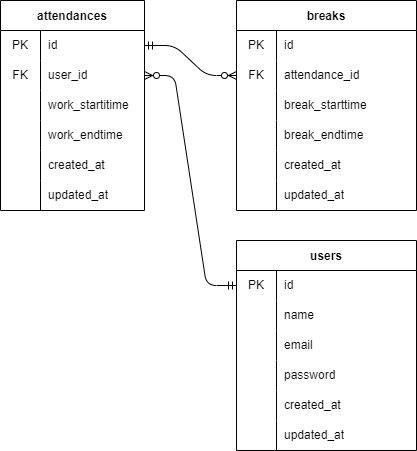
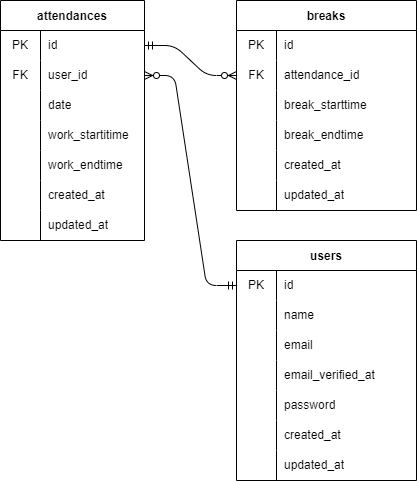
20240908_final

diff --git a/src/routes/web.php b/src/routes/web.php
@@ -100,116 +100,4 @@ Route::group(['middleware' => config('fortify.middleware', ['web'])], function (
             ->name('verification.send');
     }
 
-
-    // Password Reset...
-    // if (Features::enabled(Features::resetPasswords())) {
-    //     if ($enableViews) {
-    //         Route::get(RoutePath::for('password.request', '/forgot-password'), [PasswordResetLinkController::class, 'create'])
-    //             ->middleware(['guest:'.config('fortify.guard')])
-    //             ->name('password.request');
-
-    //         Route::get(RoutePath::for('password.reset', '/reset-password/{token}'), [NewPasswordController::class, 'create'])
-    //             ->middleware(['guest:'.config('fortify.guard')])
-    //             ->name('password.reset');
-    //     }
-
-    //     Route::post(RoutePath::for('password.email', '/forgot-password'), [PasswordResetLinkController::class, 'store'])
-    //         ->middleware(['guest:'.config('fortify.guard')])
-    //         ->name('password.email');
-
-    //     Route::post(RoutePath::for('password.update', '/reset-password'), [NewPasswordController::class, 'store'])
-    //         ->middleware(['guest:'.config('fortify.guard')])
-    //         ->name('password.update');
-    // }
-
-    // Email Verification...
-    // if (Features::enabled(Features::emailVerification())) {
-    //     if ($enableViews) {
-    //         Route::get(RoutePath::for('verification.notice', '/email/verify'), [EmailVerificationPromptController::class, '__invoke'])
-    //             ->middleware([config('fortify.auth_middleware', 'auth').':'.config('fortify.guard')])
-    //             ->name('verification.notice');
-    //     }
-
-    //     Route::get(RoutePath::for('verification.verify', '/email/verify/{id}/{hash}'), [VerifyEmailController::class, '__invoke'])
-    //         ->middleware([config('fortify.auth_middleware', 'auth').':'.config('fortify.guard'), 'signed', 'throttle:'.$verificationLimiter])
-    //         ->name('verification.verify');
-
-    //     Route::post(RoutePath::for('verification.send', '/email/verification-notification'), [EmailVerificationNotificationController::class, 'store'])
-    //         ->middleware([config('fortify.auth_middleware', 'auth').':'.config('fortify.guard'), 'throttle:'.$verificationLimiter])
-    //         ->name('verification.send');
-    // }
-
-    // Profile Information...
-    // if (Features::enabled(Features::updateProfileInformation())) {
-    //     Route::put(RoutePath::for('user-profile-information.update', '/user/profile-information'), [ProfileInformationController::class, 'update'])
-    //         ->middleware([config('fortify.auth_middleware', 'auth').':'.config('fortify.guard')])
-    //         ->name('user-profile-information.update');
-    // }
-
-    // Passwords...
-    // if (Features::enabled(Features::updatePasswords())) {
-    //     Route::put(RoutePath::for('user-password.update', '/user/password'), [PasswordController::class, 'update'])
-    //         ->middleware([config('fortify.auth_middleware', 'auth').':'.config('fortify.guard')])
-    //         ->name('user-password.update');
-    // }
-
-    // Password Confirmation...
-    // if ($enableViews) {
-    //     Route::get(RoutePath::for('password.confirm', '/user/confirm-password'), [ConfirmablePasswordController::class, 'show'])
-    //         ->middleware([config('fortify.auth_middleware', 'auth').':'.config('fortify.guard')]);
-    // }
-
-    // Route::get(RoutePath::for('password.confirmation', '/user/confirmed-password-status'), [ConfirmedPasswordStatusController::class, 'show'])
-    //     ->middleware([config('fortify.auth_middleware', 'auth').':'.config('fortify.guard')])
-    //     ->name('password.confirmation');
-
-    // Route::post(RoutePath::for('password.confirm', '/user/confirm-password'), [ConfirmablePasswordController::class, 'store'])
-    //     ->middleware([config('fortify.auth_middleware', 'auth').':'.config('fortify.guard')])
-    //     ->name('password.confirm');
-
-    // Two Factor Authentication...
-    // if (Features::enabled(Features::twoFactorAuthentication())) {
-    //     if ($enableViews) {
-    //         Route::get(RoutePath::for('two-factor.login', '/two-factor-challenge'), [TwoFactorAuthenticatedSessionController::class, 'create'])
-    //             ->middleware(['guest:'.config('fortify.guard')])
-    //             ->name('two-factor.login');
-    //     }
-
-    //     Route::post(RoutePath::for('two-factor.login', '/two-factor-challenge'), [TwoFactorAuthenticatedSessionController::class, 'store'])
-    //         ->middleware(array_filter([
-    //             'guest:'.config('fortify.guard'),
-    //             $twoFactorLimiter ? 'throttle:'.$twoFactorLimiter : null,
-    //         ]));
-
-    //     $twoFactorMiddleware = Features::optionEnabled(Features::twoFactorAuthentication(), 'confirmPassword')
-    //         ? [config('fortify.auth_middleware', 'auth').':'.config('fortify.guard'), 'password.confirm']
-    //         : [config('fortify.auth_middleware', 'auth').':'.config('fortify.guard')];
-
-    //     Route::post(RoutePath::for('two-factor.enable', '/user/two-factor-authentication'), [TwoFactorAuthenticationController::class, 'store'])
-    //         ->middleware($twoFactorMiddleware)
-    //         ->name('two-factor.enable');
-
-    //     Route::post(RoutePath::for('two-factor.confirm', '/user/confirmed-two-factor-authentication'), [ConfirmedTwoFactorAuthenticationController::class, 'store'])
-    //         ->middleware($twoFactorMiddleware)
-    //         ->name('two-factor.confirm');
-
-    //     Route::delete(RoutePath::for('two-factor.disable', '/user/two-factor-authentication'), [TwoFactorAuthenticationController::class, 'destroy'])
-    //         ->middleware($twoFactorMiddleware)
-    //         ->name('two-factor.disable');
-
-    //     Route::get(RoutePath::for('two-factor.qr-code', '/user/two-factor-qr-code'), [TwoFactorQrCodeController::class, 'show'])
-    //         ->middleware($twoFactorMiddleware)
-    //         ->name('two-factor.qr-code');
-
-    //     Route::get(RoutePath::for('two-factor.secret-key', '/user/two-factor-secret-key'), [TwoFactorSecretKeyController::class, 'show'])
-    //         ->middleware($twoFactorMiddleware)
-    //         ->name('two-factor.secret-key');
-
-    //     Route::get(RoutePath::for('two-factor.recovery-codes', '/user/two-factor-recovery-codes'), [RecoveryCodeController::class, 'index'])
-    //         ->middleware($twoFactorMiddleware)
-    //         ->name('two-factor.recovery-codes');
-
-    //     Route::post(RoutePath::for('two-factor.recovery-codes', '/user/two-factor-recovery-codes'), [RecoveryCodeController::class, 'store'])
-    //         ->middleware($twoFactorMiddleware);
-    // }
 });

diff --git a/README.md b/README.md
@@ -14,7 +14,7 @@
 
 #機能一覧
 　・会員登録
-　・ログイン
+　・ログイン（メール認証）
 　・ログアウト
 　・勤務開始/終了
 　・休憩開始/終了
@@ -30,14 +30,15 @@
 
 #テーブル設計
 
+
 #ER図
 
 #環境構築
 
-　1. docker-compose exec php bash
-　2. composer install
-　3. .env.exampleファイルから.envを作成し、環境変数を変更
-　4. 時間設定を変更・・・app.phpの'timezone'を変更し、"$ php artisan tinker"
-　5. php artisan key:generate
-　6. php artisan migrate
-　7. php artisan db:seed
+　1. docker-compose up -d --build
+　2. docker-compose exec php bash
+　3. composer install
+　4. .env.exampleファイルから.envを作成し、環境変数を変更
+　5. 時間設定を変更・・・app.phpの'timezone'を変更し、"$ php artisan tinker"
+　6. php artisan key:generate
+　7. php artisan migrate
